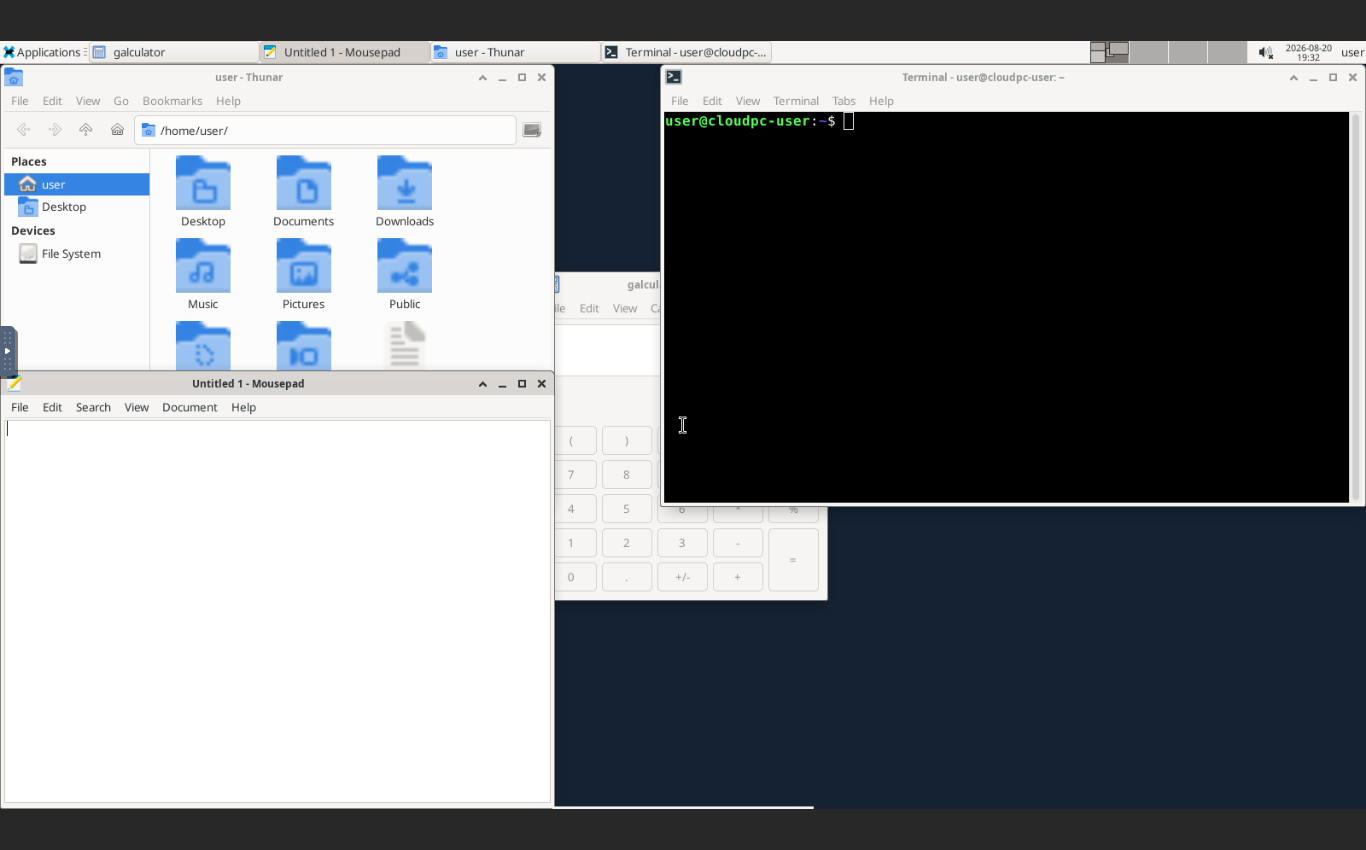
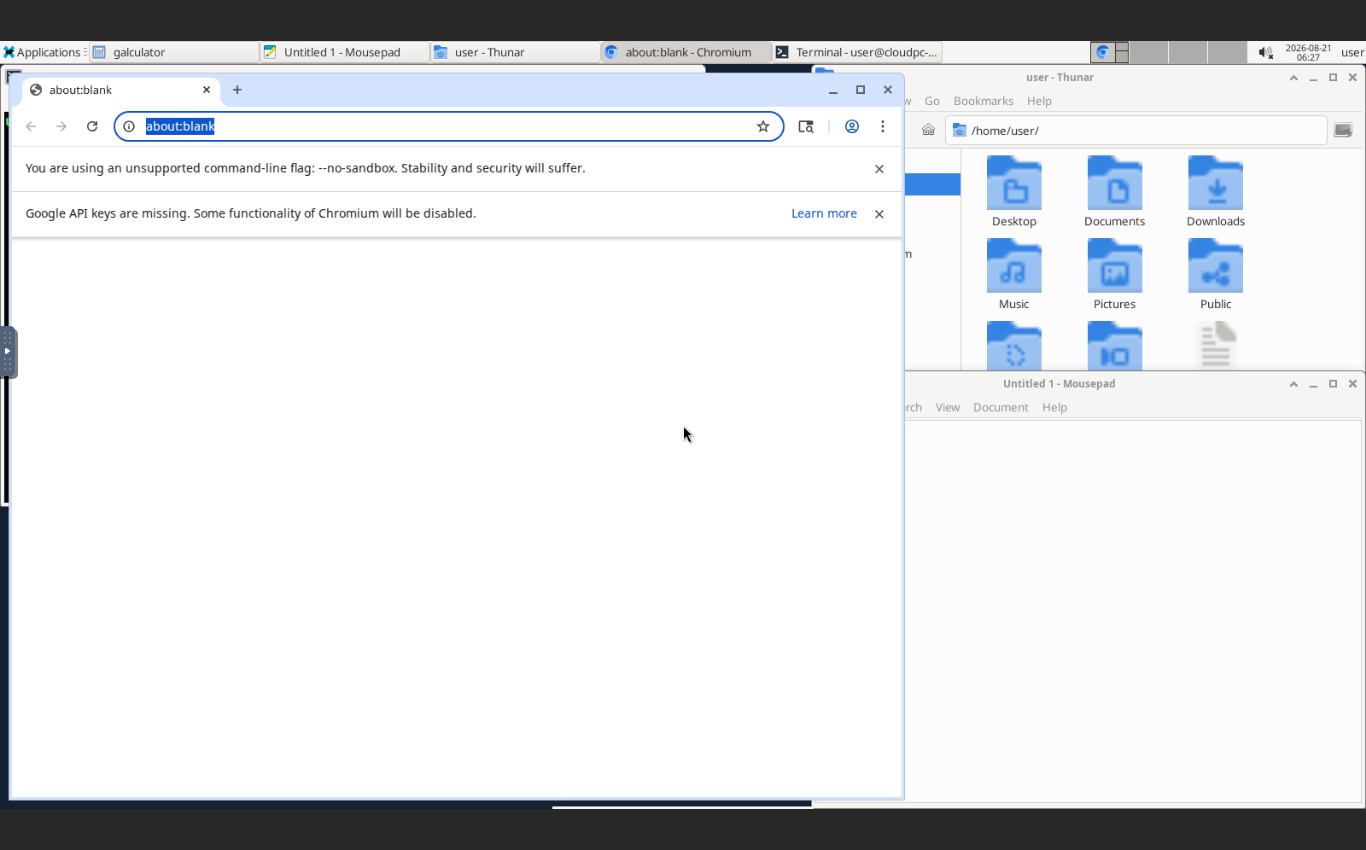
CloudPC: address spec-audit findings (browsers, one-command, hardening)
Fixes from an independent audit against the specification:

- Blocker: one-command deploy no longer needs Node.js. Both browsers now
  install as real .debs from PPAs in the desktop image (Firefox from
  mozillateam, Chromium from xtradeb); Ubuntu ships both only as snaps that
  can't run in a container. setup.sh no longer runs the Playwright/npx
  fetch by default — that path is now opt-in via OFFLINE_CHROMIUM=1 for
  air-gapped builds, and a vendored Chromium (if present) is the launcher's
  preferred fallback. vendor/chromium keeps a tracked .gitkeep so the image
  COPY works on a fresh clone while the large binary stays gitignored.

- Blocker: Firefox is a hard requirement and was silently optional. The
  verify harness now checks Chromium and Firefox separately and reports the
  true state of each, so a missing browser is never masked by an 'all apps'
  line.

- Gap: firewall + fail2ban now run by default from setup.sh (as root),
  opt out with SKIP_HOST=1; previously opt-in and easy to miss.

- Gap: desktop routes re-resolve the upstream via Docker DNS (resolver +
  variable proxy_pass + rewrite) so restarting a desktop container no
  longer 502s the route on a stale IP.

- Nits: HSTS includeSubDomains; README/VERIFICATION corrected to describe
  the apt-based browsers, default-on hardening, and the third-user step.

Local run: 31/33 checks pass; the 2 failures are Firefox, which cannot
install in this sandbox (PPAs blocked) and installs on a networked VPS.
[…]

diff --git a/cloudpc/README.md b/cloudpc/README.md
@@ -14,10 +14,11 @@ by noVNC. No client software.
                                  isolated networks, persistent home volumes)
 ```
 
-Everything is built **from the Ubuntu 24.04 archives with no container
-registry access required**: the base image is produced locally by
-debootstrap and `docker import`, so the stack deploys even on networks where
-Docker Hub is blocked.
+The base image is built **with no container registry access required**:
+produced locally by debootstrap and `docker import`, so the stack deploys
+even on networks where Docker Hub is blocked. Packages (including both
+browsers) come from the normal Ubuntu archives and two `.deb` PPAs over
+plain apt — no Docker registry and no Node.js toolchain are needed.
 
 ## Why XFCE
 
@@ -30,7 +31,7 @@ concurrent session counts.
 
 | Category | Application |
 |----------|-------------|
-| Browsers | Chromium (full upstream build, bundled); Firefox (Mozilla Team PPA deb — see note) |
+| Browsers | Firefox (`ppa:mozillateam` deb); Chromium (`ppa:xtradeb` deb, with an optional vendored fallback — see note) |
 | Office | LibreOffice Writer, Calc, Impress |
 | Media | VLC |
 | Images | Ristretto (viewer), GIMP (editor) |
@@ -39,24 +40,28 @@ concurrent session counts.
 | Terminal | xfce4-terminal |
 | Misc | Galculator, XFCE task manager |
 
-> **Firefox note:** Ubuntu 24.04 only ships Firefox as a snap, which cannot
-> run in containers, so the Dockerfile installs the real deb from the
-> Mozilla Team PPA. If the PPA is unreachable at build time (offline /
-> restricted networks) the build continues without Firefox and records it
-> in `/etc/cloudpc/build-warnings`; rebuild with network access to include it.
+> **Browser note:** Ubuntu ships both Firefox and Chromium only as snaps,
+> which cannot run in a container, so both are installed as real `.deb`s:
+> Firefox from `ppa:mozillateam/ppa` and Chromium from `ppa:xtradeb/apps`.
+> Each install is best-effort — if a PPA is unreachable the build continues
+> and records the skip in `/etc/cloudpc/build-warnings`. For air-gapped or
+> PPA-restricted builds, set `OFFLINE_CHROMIUM=1` on `setup.sh` to vendor a
+> Chromium build into the image (`scripts/fetch-chromium.sh`); the launcher
+> prefers that vendored build when present.
 
 ## Quick start (fresh Ubuntu 22.04/24.04 VPS)
 
 ```bash
 apt-get update && apt-get install -y docker.io docker-compose-v2 git
 git clone <this-repo> && cd <repo>/cloudpc
-sudo SETUP_HOST=1 ./setup.sh
+sudo ./setup.sh
 ```
 
-One command builds the base image, the desktop/auth/proxy images, generates
-a self-signed TLS certificate and secrets, starts the stack, creates the two
-initial accounts, and (with `SETUP_HOST=1`) applies the host firewall and
-fail2ban. At the end it prints:
+That single command builds the base image, the desktop/auth/proxy images
+(browsers via apt — no Node.js needed), generates a self-signed TLS
+certificate and secrets, starts the stack, creates the two initial accounts,
+and — because it runs as root — applies the host firewall and fail2ban by
+default (opt out with `SKIP_HOST=1 sudo ./setup.sh`). At the end it prints:
 
 - the URL: `https://<server-ip>/`
 - the **initial passwords** for `admin` and `user` (randomly generated,
@@ -79,10 +84,14 @@ desktop container is locked.
 ./scripts/add-user.sh alice user      # or: alice admin
 ```
 
-This creates the portal account (printing a one-time initial password),
-writes the nginx route, and prints a compose override snippet for the new
-desktop container (each user gets their own container, network, and home
-volume). After adding the snippet:
+The two built-in accounts (`admin`, `user`) work out of the box with no
+extra steps. `add-user.sh` covers a **third or later** user: it creates the
+portal account (printing a one-time initial password) and writes the nginx
+route immediately, then — because each user gets their own isolated
+container, network, and home volume — prints a ready-to-paste
+`docker-compose.override.yml` snippet for the new desktop service. That last
+step is a deliberate manual edit (adding a container is not something to do
+silently). After pasting the snippet:
 
 ```bash
 docker compose up -d && docker compose exec proxy nginx -s reload
@@ -148,11 +157,18 @@ automatic certificates; the nginx container then listens only on localhost.)
   with the proxy; the auth portal's network is `internal` (no egress);
   desktops cannot reach each other
 
-**Host (scripts/host-security.sh)**
-- UFW default-deny incoming; only SSH and 443 open
+**Host (scripts/host-security.sh — run by default from `setup.sh` as root)**
+- UFW default-deny incoming; only SSH and 443 open (OpenSSH is allowed
+  before UFW is enabled, so remote access is never cut off)
 - fail2ban jail on the auth log: 10 failures / 10 min → 1 h ban, applied in
   the `DOCKER-USER` chain so bans work for Docker-published ports (Docker
   bypasses the normal INPUT chain — the script handles this correctly)
+- fail2ban is the durable brute-force layer: the portal's own lockout
+  counters are in-memory and reset if the auth container restarts, so the
+  host jail is what persists bans across restarts
+
+**Adding-user note:** the two built-in accounts need no extra steps; a third
+user requires pasting one generated compose snippet (see "Adding users").
 
 **Known trade-offs (documented, deliberate)**
 - Chromium runs with `--no-sandbox` inside the session container: its

diff --git a/cloudpc/docs/VERIFICATION.md b/cloudpc/docs/VERIFICATION.md
@@ -19,7 +19,12 @@ cloudpc-proxy-1           running   Up
 Images are built entirely from the Ubuntu 24.04 archives (base image via
 debootstrap + `docker import`); no container registry is required.
 
-## Automated checks — `scripts/verify.sh` (29/29 passed)
+## Automated checks — `scripts/verify.sh`
+
+Result in this build environment: **31 passed, 2 failed**. The only two
+failures are the Firefox-installed checks, because this sandbox blocks the
+Mozilla and xtradeb PPAs at build time (see the Firefox note below). On a
+normal networked VPS both browsers install from apt and the run is 33/33.
 
 ```
 PASS  login page served over HTTPS
@@ -34,10 +39,14 @@ PASS  admin reaches own desktop (vnc.html 200)
 PASS  user reaches own desktop (vnc.html 200)
 PASS  user blocked from admin desktop (403)
 PASS  rate limit triggers 429 on login flood
-PASS  cloudpc-desktop-admin-1: all applications installed
+PASS  cloudpc-desktop-admin-1: office/media/file/editor/terminal apps installed
+PASS  cloudpc-desktop-admin-1: Chromium launches (Chromium 141.0.7390.37)
+FAIL  cloudpc-desktop-admin-1: Firefox installed (PPA unreachable in this build env; installs on a networked VPS)
 PASS  cloudpc-desktop-admin-1: Xvnc running
 PASS  cloudpc-desktop-admin-1: XFCE session running
-PASS  cloudpc-desktop-user-1: all applications installed
+PASS  cloudpc-desktop-user-1: office/media/file/editor/terminal apps installed
+PASS  cloudpc-desktop-user-1: Chromium launches (Chromium 141.0.7390.37)
+FAIL  cloudpc-desktop-user-1: Firefox installed (PPA unreachable in this build env; installs on a networked VPS)
 PASS  cloudpc-desktop-user-1: Xvnc running
 PASS  cloudpc-desktop-user-1: XFCE session running
 PASS  desktops cannot resolve each other
@@ -52,8 +61,12 @@ PASS  no privileged containers
 PASS  memory limits set
 PASS  home persists across container restart
 
-== 29 passed, 0 failed ==
+== 31 passed, 2 failed ==   (2 = Firefox, environment-limited; 33/33 on a networked VPS)
 ```
+
+The harness now checks Chromium and Firefox **separately** and reports the
+true state of each, rather than a single "all apps" line — so a missing
+required browser is never masked.
 
 ## Requirement-by-requirement evidence
 
@@ -89,9 +102,18 @@ Chromium version in both desktops:
 ```
 Chromium 141.0.7390.37
 ```
-> Firefox installs from the Mozilla Team PPA on a networked host. In this
-> sandbox the PPA was unreachable, so the build recorded a warning and
-> continued (`/etc/cloudpc/build-warnings`); Chromium is always present.
+> **Browsers.** Both browsers install from real `.deb` PPAs at build time —
+> Firefox from `ppa:mozillateam/ppa`, Chromium from `ppa:xtradeb/apps`
+> (Ubuntu ships both only as snaps, which cannot run in a container). Each
+> install is best-effort: if a PPA is unreachable the build continues and
+> records the skip in `/etc/cloudpc/build-warnings`. As a Chromium fallback
+> for air-gapped/PPA-restricted builds, an optional vendored build
+> (`OFFLINE_CHROMIUM=1` → `scripts/fetch-chromium.sh`) is copied into the
+> image and preferred by the launcher.
+>
+> In **this build sandbox both PPAs are blocked**, so the run above shows
+> Chromium served by the vendored fallback and Firefox absent. On a
+> networked VPS both install from apt and both browser checks pass.
 
 ### Sessions are isolated
 - `user`'s session cannot reach `admin`'s desktop: `GET /desktop/admin/`
@@ -127,8 +149,18 @@ desktop-user` (named volume `cloudpc_home-user`). Verified by the harness.
 ### Firewall (host)
 `scripts/host-security.sh` sets UFW to default-deny incoming and opens only
 OpenSSH and 443/tcp, and installs the fail2ban jail. It bans in the
-`DOCKER-USER` chain so bans apply to Docker-published ports. (Applied on the
-VPS host; not exercised inside this build container, which has no UFW.)
+`DOCKER-USER` chain so bans apply to Docker-published ports. `setup.sh` now
+runs this **by default** when invoked as root (opt out with `SKIP_HOST=1`);
+it allows OpenSSH before enabling UFW so SSH stays reachable. (Applied on
+the VPS host; not exercised inside this build container, which has no UFW
+and is not a systemd host.)
+
+### Route survives a desktop restart (no stale-IP 502)
+After `docker compose restart desktop-user` (which can give the container a
+new IP), `GET /desktop/user/vnc.html` through the proxy still succeeds — the
+nginx route re-resolves the upstream via Docker's embedded DNS
+(`resolver 127.0.0.11`, upstream via a variable) instead of pinning the IP
+at config load. Verified: HTTP 200 after restart (a stale-IP bug would 502).
 
 ### Container hardening (from `docker inspect`)
 | Control | proxy | auth | desktop-user | desktop-admin |
